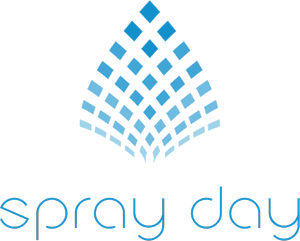
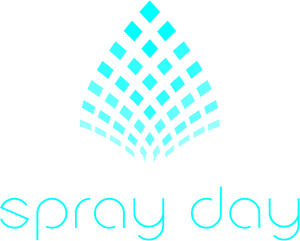
basic open graph metatags

diff --git a/app/helpers/application_helper.rb b/app/helpers/application_helper.rb
@@ -21,8 +21,12 @@ module ApplicationHelper
       title: 'Spray-day',
       description: 'A program for quicky making a spray application plan on the go',
       keywords: 'spray orchard application calculation calculator',
-      separator: '&mdash;'.html_safe,
-      image_src: image_url('sprayday.png', class: 'img-fluid')
+      image_src: image_url('ogimage.png', class: 'img-fluid'),
+      og: {
+        title: :title,
+        image: { _: :image_src, width: 150, height: 150 },
+        url: 'https://www.spray-day.click'
+      }
     }
   end
 end
